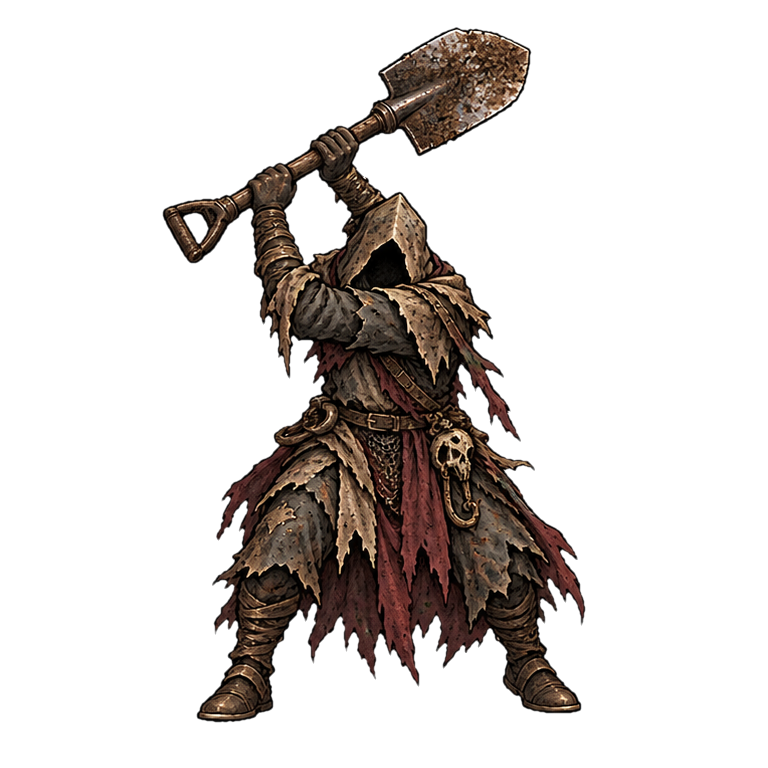
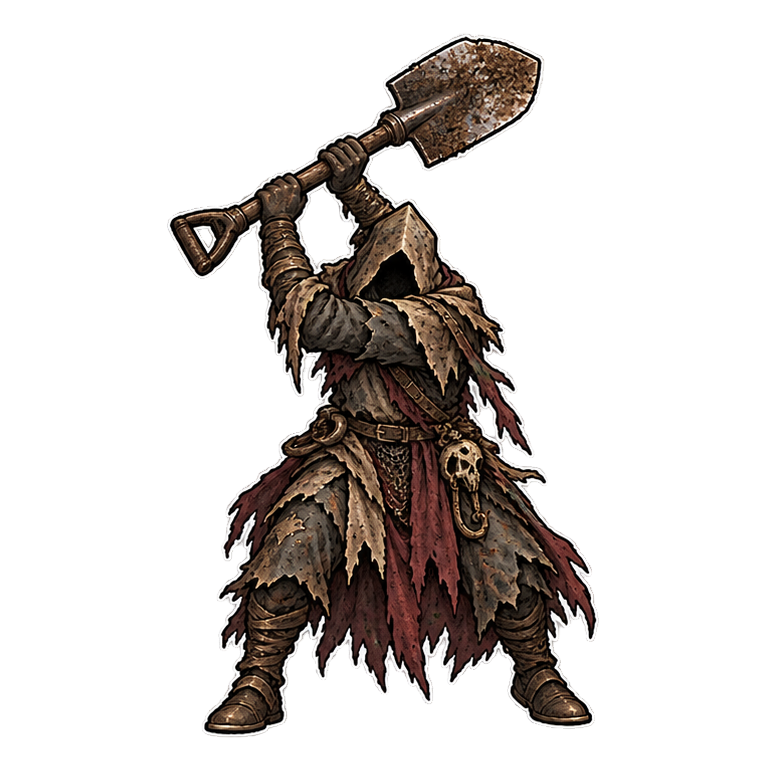
Monstres Atlas Noir : liseré blanc conservé à la découpe des planches ; textes de présentation (ambiance, joueurs)

Changed region(s): [[0.2188, 0.0312, 0.7812, 0.9375]]

diff --git a/tools/make_monster.py b/tools/make_monster.py
@@ -1,13 +1,13 @@
 #!/usr/bin/env python3
 """Découpe la PLANCHE d'un monstre « Atlas Noir » et écrit les cinq webp du jeu.
-Usage : python3 tools/make_monster.py <id> planche.png
+Usage : python3 tools/make_monster.py <id> planche.png [--sans-liseré]
   → assets/monsters/<id>.webp, <id>_attack.webp, <id>_hit.webp, <id>_attack2.webp, <id>_dead.webp (carrés, RGBA, même taille).
 
 Format de la planche (fond transparent, un liseré blanc « autocollant » autour de chaque pose) :
   en haut, de gauche à droite : Attente, Attaque, Impact (coup reçu) ; en bas : Attaque alternative, Mort.
 Traitements (indispensables pour que le sprite ne SCINTILLE pas en 3D) :
   1. découpe des cinq poses (composantes connexes de l'alpha) ;
-  2. suppression du liseré blanc : pixels clairs reliés à l'extérieur (le trait noir de l'illustration reste), puis bord
+  2. le liseré blanc est GARDÉ par défaut (choix de l'auteur) ; avec --sans-liseré : suppression du liseré blanc : pixels clairs reliés à l'extérieur (le trait noir de l'illustration reste), puis bord
      légèrement érodé et adouci : un trait clair fin qui bouge à la respiration ou à la caméra crépite à l'écran ;
   3. couleurs des pixels transparents prolongées depuis le bord (pas de frange claire ou noire aux mipmaps) ;
   4. AUCUN rééchantillonnage ni flou : la résolution d'origine de la planche est conservée (pas d'agrandissement) ;
@@ -26,6 +26,7 @@ SUFFIXES = ["", "_attack", "_hit", "_attack2", "_dead"]
 OUTLINE_ITER = 16   # px max parcourus par le liseré blanc depuis l'extérieur
 ERODE = 2           # px retirés ensuite (reste de liseré gris)
 FEATHER = 1.0       # px de dégradé du bord
+KEEP_OUTLINE = True  # liseré blanc conservé (voulu) ; --sans-liseré pour le retirer
 FLOOR = 0.94        # position des pieds dans le carré (fraction de la hauteur)
 MARGIN = 0.03       # marge minimale autour de la pose la plus grande
 
@@ -53,11 +54,20 @@ def split(sheet):
         ys, xs = np.where(mine)
         y0, y1 = max(0, ys.min() - 4), min(al.shape[0], ys.max() + 5)
         x0, x1 = max(0, xs.min() - 4), min(al.shape[1], xs.max() + 5)
-        poses.append(clean(rgb[y0:y1, x0:x1], solid[y0:y1, x0:x1]))
+        poses.append(clean(rgb[y0:y1, x0:x1], solid[y0:y1, x0:x1], (al * mine)[y0:y1, x0:x1]))
     return poses
 
-def clean(rgb, solid):
-    """Retire le liseré blanc relié à l'extérieur, érode, adoucit, prolonge les couleurs."""
+def clean(rgb, solid, soft):
+    """Par défaut le liseré blanc est GARDÉ (alpha d'origine de la planche, poussière écartée). Avec --sans-liseré : retire le liseré
+    relié à l'extérieur, érode, adoucit."""
+    if KEEP_OUTLINE:
+        lab, n = ndi.label(solid)
+        if n > 1:
+            sz = ndi.sum(solid, lab, range(1, n + 1))
+            solid = np.isin(lab, [i + 1 for i, z in enumerate(sz) if z > 400])
+        alpha = np.where(ndi.binary_dilation(solid, iterations=2), np.clip((soft - 0.06) / 0.9, 0, 1), 0).astype(np.float32)
+        idx = ndi.distance_transform_edt(~solid, return_distances=False, return_indices=True)
+        return rgb[idx[0], idx[1]], alpha
     solid = np.pad(solid, 2); rgb = np.pad(rgb, ((2, 2), (2, 2), (0, 0)), mode="edge")
     whitish = (rgb.min(-1) > 0.78) & ((rgb.max(-1) - rgb.min(-1)) < 0.18)
     removed = ~solid
@@ -92,6 +102,9 @@ def stats(alpha):
                 cx=float((xs * w).sum() / w.sum()))
 
 def main():
+    global KEEP_OUTLINE
+    if "--sans-liseré" in sys.argv:
+        sys.argv.remove("--sans-liseré"); KEEP_OUTLINE = False
     mid, sheet = sys.argv[1], sys.argv[2]
     poses = split(sheet)
     st = [stats(p[1]) for p in poses]

diff --git a/docs/TECHNIQUE.md b/docs/TECHNIQUE.md
@@ -519,7 +519,7 @@ Après TripoSR, `Converter._bake_command` copie `res://tools_py/bake_texture.py`
 - Accueil, décor animé : `FLAME_SHADER` (home_screen.gd, `blend_add`, bruit fbm, seed/intensity) sur des `ColorRect` placés d'après l'image de fond recadrée « cover » (`_make_flames`/`_layout_flames`, positions en fraction de l'image). Chaînes `chain_left.png`/`chain_right.png` générées par script numpy (maillons de face/profil ombrés, tore + reflet) ; la tête de mort est détourée par remplissage depuis les bords et fondue en haut. En-tête (`app_header.gd`) : titre unique « ATLAS NOIR », sous-titre masqué.
 - Monstres à illustrations propres (nouvelle génération, premier : `mon_veilleur_os`) : cinq images carrées sous `assets/monsters/` (découpées d'une planche, voir plus bas) — `<id>.webp` (repos), `<id>_attack.webp` et `<id>_attack2.webp` (deux poses d'attaque tirées au hasard à chaque attaque), `<id>_hit.webp` (coup reçu, teinté en rouge) et `<id>_dead.webp` (à terre : reste affiché 0,9 s puis s'estompe, au lieu de l'écrasement). Les pieds sont calés sur la même ligne dans toutes les poses. Gérées par `EntityLayer._own_pose` / `_die` ; `tools/shot_veilleur.gd` capture le cycle complet en combat. Hauteur : ligne `veilleur` de `MON_HEIGHTS` ; résistances : `Resist.FAMILY`.
 - Catégorie d'icônes « Monstres Atlas Noir » : entrée de `ICON_CATALOG` (game_constants.json, avant « Monstres », entrées à trois éléments = vignettes lourdes). Pour ajouter un monstre de cette génération : cinq images dans `assets/monsters/`, une ligne dans cette catégorie, une dans `DungeonGenerator.TIER2/3` (tirage aléatoire) et ses résistances dans `Resist.FAMILY`. `IconResolver.texture` retombe sur `assets/monsters/<id>.webp` quand aucune icône ne correspond.
-- Anti-scintillement des monstres Atlas Noir : les cinq poses passent par `python3 tools/make_monster.py <id> planche.png` (détourage, liseré blanc « autocollant » retiré, couleurs prolongées sous l'alpha, pieds alignés, aucun flou) ; mipmaps activés dans les `.webp.import` ; `EntityLayer` pose la méta `atlas` (présence de `<id>_attack.webp`) et réduit la respiration à 30 %. `tools/shot_shimmer.gd` mesure la différence moyenne entre images consécutives (de 0,0028 à 0,0018 sur le Veilleur Os). Règle valable pour tous les futurs monstres.
+- Anti-scintillement des monstres Atlas Noir : les cinq poses passent par `python3 tools/make_monster.py <id> planche.png` (découpe, liseré blanc « autocollant » conservé, couleurs prolongées sous l'alpha, pieds alignés, aucun flou) ; mipmaps activés dans les `.webp.import` ; `EntityLayer` pose la méta `atlas` (présence de `<id>_attack.webp`) et réduit la respiration à 30 %. `tools/shot_shimmer.gd` mesure la différence moyenne entre images consécutives (de 0,0028 à 0,0018 sur le Veilleur Os). Règle valable pour tous les futurs monstres.
 - Fossoyeur sans visage (`mon_fossoyeur`) : même procédure (make_monster.py, catégorie « Monstres Atlas Noir », `TIER2`, `Resist.FAMILY`, effet « affaiblissement » dans `MonsterEffects.FAMILY`, hauteur `fossoyeur` 1,75 car sa silhouette occupe moins de l'image). Ajouté à la Crypte Profonde (case 7,3) pour l'essai.
 - Monstres Atlas Noir, rendu : images à la résolution d'origine (1536 px, webp sans perte, plus de réduction ni de flou : `make_monster.py`) ; sprites ÉCLAIRÉS (`EntityLayer._lit_material` : ombrage par pixel, rugosité 1, léger auto-éclairage 0,22) donc sensibles à la lumière d'ambiance du niveau, à la torche du groupe et aux lampes ; barre de vie fixe : `CombatStage._pose_envelope` prend le sommet le plus haut de toutes les poses debout (repos, attaques, coup) et la barre s'y pose, sans bouger d'une pose à l'autre.
-- Planches de monstres (format de livraison depuis le 2026-10-31) : une seule image RGBA à fond transparent, un liseré blanc autour de chaque pose, dans l'ordre (haut gauche → bas droite) Attente, Attaque, Impact, Attaque alternative, Mort. `tools/make_monster.py <id> planche.png` découpe les cinq poses (noyaux érodés, chaque pixel rattaché au noyau le plus proche, donc deux liserés qui se touchent ne fusionnent pas), retire le liseré blanc relié au vide et ses restes piégés dans les pointes de tissu (le trait noir de l'illustration est conservé), puis recompose les poses à la même échelle dans un carré (pieds sur 94 % de la hauteur, centre de masse de l'attente au milieu), sans agrandissement ni flou : la résolution est celle de la planche (≈ 600 px de haut pour un monstre debout, carré de 752 à 768 px). La hauteur affichée se règle par la ligne du monstre dans `EntityLayer.MON_HEIGHTS` (le script affiche la part du carré occupée par la pose d'attente ; ligne = ancienne ligne × ancienne part / nouvelle part : `veilleur` 1,64, `fossoyeur` 1,71). Veilleur Os et Fossoyeur sans visage ont été réimportés ainsi à la place des premières versions.
+- Planches de monstres (format de livraison depuis le 2026-10-31) : une seule image RGBA à fond transparent, un liseré blanc autour de chaque pose, dans l'ordre (haut gauche → bas droite) Attente, Attaque, Impact, Attaque alternative, Mort. `tools/make_monster.py <id> planche.png` découpe les cinq poses (noyaux érodés, chaque pixel rattaché au noyau le plus proche, donc deux liserés qui se touchent ne fusionnent pas), GARDE le liseré blanc des planches (choix de l'auteur ; l'option `--sans-liseré` retire le liseré relié au vide et ses restes piégés dans les pointes de tissu), écarte la poussière, puis recompose les poses à la même échelle dans un carré (pieds sur 94 % de la hauteur, centre de masse de l'attente au milieu), sans agrandissement ni flou : la résolution est celle de la planche (≈ 600 px de haut pour un monstre debout, carré d'environ 770 px). La hauteur affichée se règle par la ligne du monstre dans `EntityLayer.MON_HEIGHTS` (le script affiche la part du carré occupée par la pose d'attente ; ligne = ancienne ligne × ancienne part / nouvelle part : `veilleur` 1,64, `fossoyeur` 1,71). Veilleur Os et Fossoyeur sans visage ont été réimportés ainsi à la place des premières versions.

diff --git a/docs/PRESENTATION_JOUEURS.md b/docs/PRESENTATION_JOUEURS.md
@@ -1,0 +1,40 @@
+# Atlas Noir – présentation pour les joueurs
+
+*Les profondeurs n'ont jamais livré leurs secrets. Vous allez y descendre.*
+
+## Le principe
+
+Atlas Noir est un jeu d'exploration de donjons en vue subjective. Vous menez un groupe de héros de case en case dans des couloirs et des salles sombres, éclairés par vos torches. À chaque pas, un piège, un coffre, une fontaine, une porte close ou un monstre peut surgir. Descendez de niveau en niveau, trouvez l'escalier et survivez.
+
+## Votre groupe
+
+Vous choisissez vos classes de base : Guerrier, Archer, Roublard, Mage, Prêtre, Barde ou Druide. Chaque héros gagne de l'expérience et des niveaux, puis évolue vers une classe plus puissante. Il apprend des sorts et des talents, et s'équipe de ce qu'il trouve ou achète.
+
+- **Caractéristiques :** force, dextérité, intelligence et constitution ont chacune un effet réel en jeu. La dextérité donne des critiques et de l'esquive, la constitution renforce la garde.
+- **Technique ultime :** à l'évolution (niveau 5), chaque héros débloque une technique ultime propre à sa nouvelle classe. Elle se charge en combat grâce à une jauge, puis se lance avec la touche **R** ou **8**.
+
+## Les combats
+
+- **Ordre de jeu :** il est stable. Il ne change que si un combattant gagne ou perd un bonus ou un malus de vitesse.
+- **Votre tour :** vous disposez d'un temps de réflexion, matérialisé par la barre dorée de la carte du héros.
+- **Les monstres :** ils résistent selon leur famille, un élémentaire de feu résiste toujours au feu. Certains lancent des sorts. Les boss entrent en rage, signalée par un halo rouge.
+- **Attention :** aucun monstre n'attaque dès votre arrivée, vous avez le temps de vous placer.
+
+## Le donjon
+
+- **Pièges :** ils se contournent par l'esquive ou se désarment. La hache pendulaire, par exemple, se neutralise avec un levier mural.
+- **Salles :** elles sont reliées par des couloirs et cachent coffres et salles spéciales.
+- **Butin :** il est meilleur sur les boss, et d'autant plus rare et puissant que la difficulté monte.
+
+## Comment jouer
+
+- **Partie libre :** un donjon aléatoire où vous préparez l'expédition. Vous choisissez les classes du groupe, la taille du donjon (13×11 au minimum) et jusqu'à 12 modificateurs.
+- **Donjon d'Origine :** le donjon de démonstration.
+- **Éditeur de donjon :** il est intégré au jeu. Vous créez vos donjons, vos monstres et vos sorts, avec leur effet visuel.
+- **En ligne :** avec un compte, vous relevez des défis classés, dont le « Hardcore du mois », « sans perte » et la « graine de la semaine » (un essai par jour). Les parties classées sont vérifiées par rejeu. Vous partagez aussi vos créations.
+- **Récompenses :** titres, badges et cadres, purement cosmétiques.
+- **Sauvegardes :** elles sont conservées et mises à jour à chaque nouvelle version.
+
+## En une phrase
+
+Formez votre groupe, descendez dans le noir, battez ce qui vous barre la route et revenez avec le butin.

diff --git a/docs/TEXTE_AMBIANCE.md b/docs/TEXTE_AMBIANCE.md
@@ -1,0 +1,13 @@
+# Atlas Noir
+
+On raconte que sous les routes connues, il existe une seconde carte du monde. Elle n'a pas été dessinée à l'encre, mais gravée dans la roche, à la pointe du couteau, par ceux qui sont descendus les premiers.
+
+Cet atlas ne montre ni royaumes ni frontières. Il montre ce qui dort en dessous : des couloirs qui se croisent, des salles oubliées, des escaliers qui s'enfoncent plus loin que n'importe quelle torche. On l'appelle l'Atlas Noir, parce qu'il ne s'éclaire que lorsqu'on le traverse. Chaque pas révèle une ligne, chaque ligne a coûté la vie à quelqu'un.
+
+Ses pages ne sont jamais finies. Les galeries changent, les gardiens se relèvent, et ce que l'on croyait mort ouvre les yeux au passage. Veilleurs d'os, fossoyeurs sans visage, bêtes affamées et sentinelles de pierre rôdent entre deux flammes. Les cartes d'hier ne valent rien demain.
+
+Pourtant, il y a toujours des audacieux pour descendre. Un guerrier têtu, une archère patiente, un mage curieux, un druide qui entend les racines sous la pierre, un barde qui garde le courage des autres. Leur boussole ne pointe pas le nord : elle pointe vers l'inconnu.
+
+Alors allumez votre torche, serrez les rangs et avancez.
+
+*Il n'y a qu'une façon de remplir l'Atlas Noir : le parcourir.*
